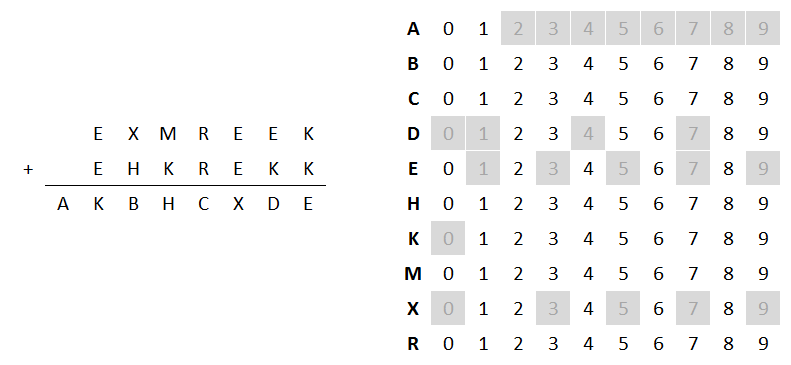
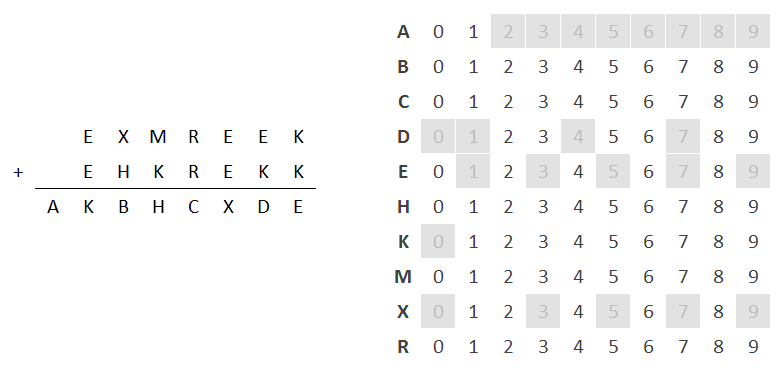
Implementation

diff --git a/2018-06-08/README.md b/2018-06-08/README.md
@@ -94,7 +94,7 @@ K|E|D
 2|4|6
 3|6|9
 4|8|<sup>1</sup>2
-5|c0|6
+5|<sup>1</sup>0|6
 6|<sup>1</sup>2|9
 7|<sup>1</sup>4|<sup>1</sup>2
 8|<sup>1</sup>6|<sup>1</sup>5
@@ -118,7 +118,10 @@ This eliminates X = 0, 3, 5, 7, 9
 
 ![Message](step6.png)
 
-Since we could be carrying a 1 into R + R = C, and R and C cannot both be 0, C cannot be 0.
+Next, notice the following three columns:
+
+- E + E = K
+- E + E = X
+- K + K = E
 
 ![Message](step7.png)
-
